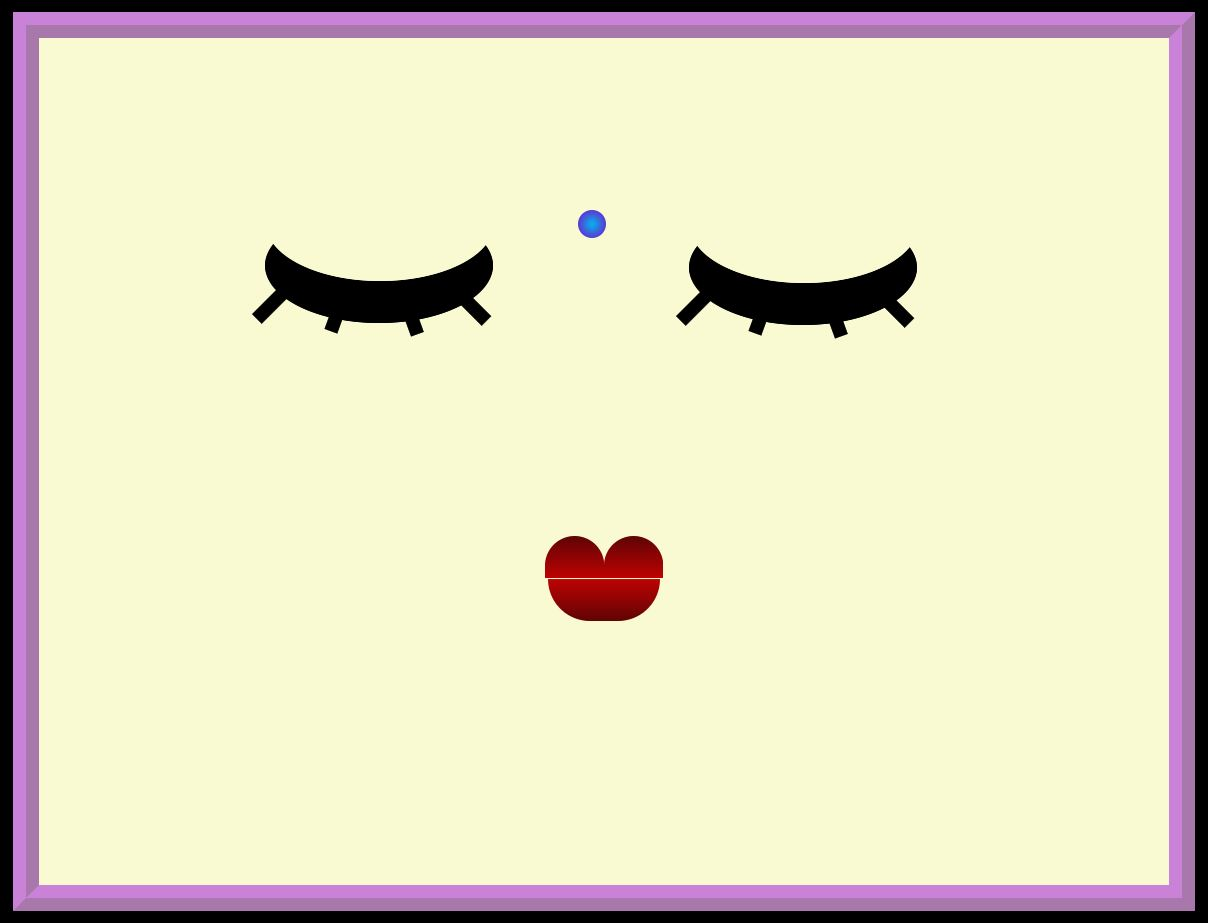
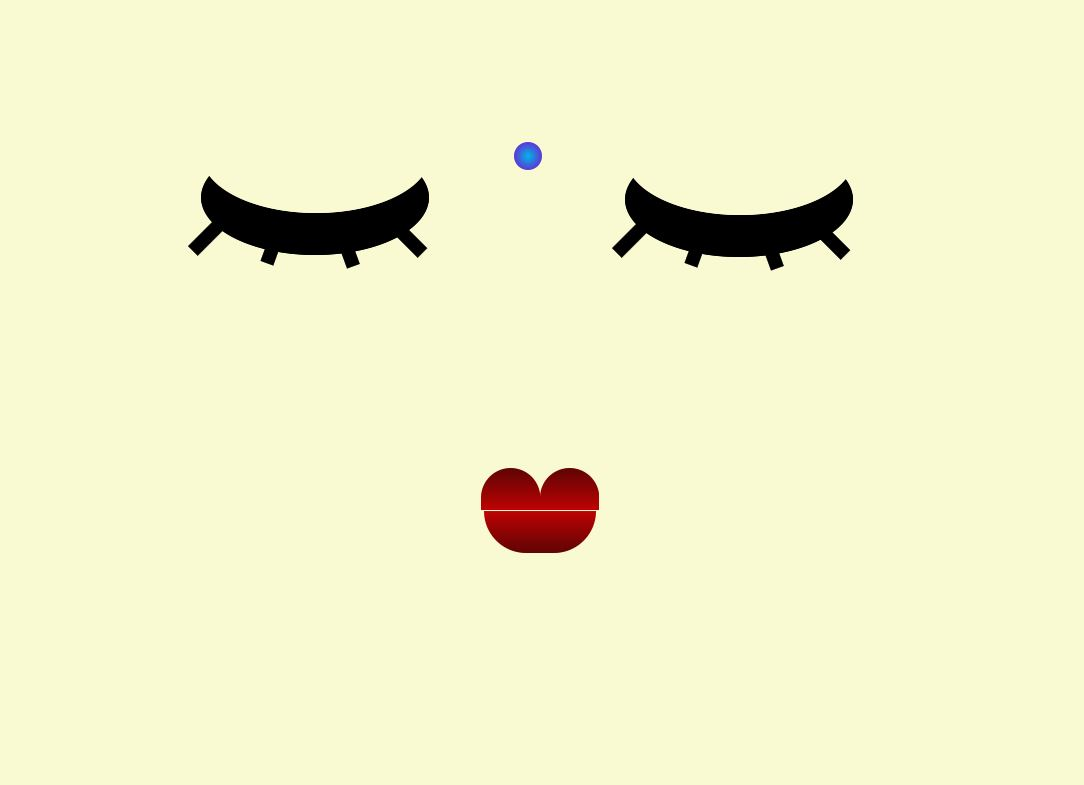
portfolio gold complete

diff --git a/index.html b/index.html
@@ -47,7 +47,7 @@
             </div>
             <div class="row align-items-center">
                 <div class="col-lg-12 col-md-12 col-sm-6">
-                    <img class="w-75 h-75 p-3" src="/assets/example.png" alt="TBD Image">
+                    <img class="landing-image pt-3" src="/assets/example.png" alt="TBD Image">
                 </div>
             </div>
         </div>
@@ -62,11 +62,6 @@
                             maiores? Quisquam provident dolores facere esse obcaecati. Quia iure excepturi officiis
                             tempore quaerat corporis, aspernatur voluptate?</h1>
                     </div>
-                        <div class="col-lg-12 col-sm-12 p-3">
-                            <a href="/assets/resume_tbd.pdf" download="JessicaLee_resume.pdf"><button
-                                    class="btn btn-primary">Download
-                                    Resume</button></a>
-                        </div>
                 </div>
             </div>
         </div>
@@ -84,7 +79,7 @@
                             <img src="/assets/css_creature.JPG" class="card-img-top" alt="CSS Creature Thumbnail">
                             <div class="card-body">
                                 <h5 class="card-title">CSS Creature</h5>
-                                <p class="card-text">A drawing made only by using CSS contents in CodePen</p>
+                                <p class="card-text">A drawing made only by using CSS in CodePen</p>
                                 <a href="https://codepen.io/Seytani/pen/abvXoyz" target="_blank"
                                     class="btn btn-primary">See
                                     Project</a>
@@ -234,6 +229,17 @@
             </div>
         </div>
     </div>
+    
+    <footer class="footer mt-auto py-3 d-flex justify-content-around fixed-bottom">
+        <p class="p-2">Content made with ♥ by Jessica Lee </p>
+        <div>
+            <a href="https://github.com/Seytani" target="_blank"><i class="fab fa-github-square social-media"></i></a>
+            <a href="https://www.linkedin.com/" target="_blank"><i class="fab fa-linkedin social-media"></i></a>
+            <a href="/assets/resume_tbd.pdf" download="JessicaLee_resume.pdf"><button
+                class="btn btn-primary btn-footer mb-3 ml-2">Download
+                Resume</button></a>
+        </div>
+    </footer>
 
     <!-- Optional JavaScript -->
     <!-- jQuery first, then Popper.js, then Bootstrap JS -->
@@ -250,5 +256,6 @@
     <script src="https://cdnjs.cloudflare.com/ajax/libs/animejs/2.0.2/anime.min.js"></script>
     <script src="index.js"></script>
 </body>
+
 
 </html>

diff --git a/index.css b/index.css
@@ -23,7 +23,7 @@ nav {
     background: rgb(194, 130, 151);
     border: rgb(194, 130, 151);
 }
-.btn-primary:active {
+.btn-primary:focus {
     background: rgb(117, 56, 76);
     border: rgb(129, 14, 52);
 }
@@ -53,9 +53,28 @@ nav {
     color: rgb(116, 78, 90);
 }
 
+.landing-image {
+    width: 60.6%;
+}
+
 .card-body {
     background-color: #e9e8e8;
 }
+
+footer {
+background: #A78C8A;
+color: rgb(230, 224, 224);
+font-size: 1.2em;
+border-top: #EBB2AF solid 10px;
+}
+
+.social-media {
+    padding: 0.2em;
+    color: rgb(230, 224, 224);
+    font-size: 2em;
+}
+
+
 
 /* animated text */
 .animated-1 {
